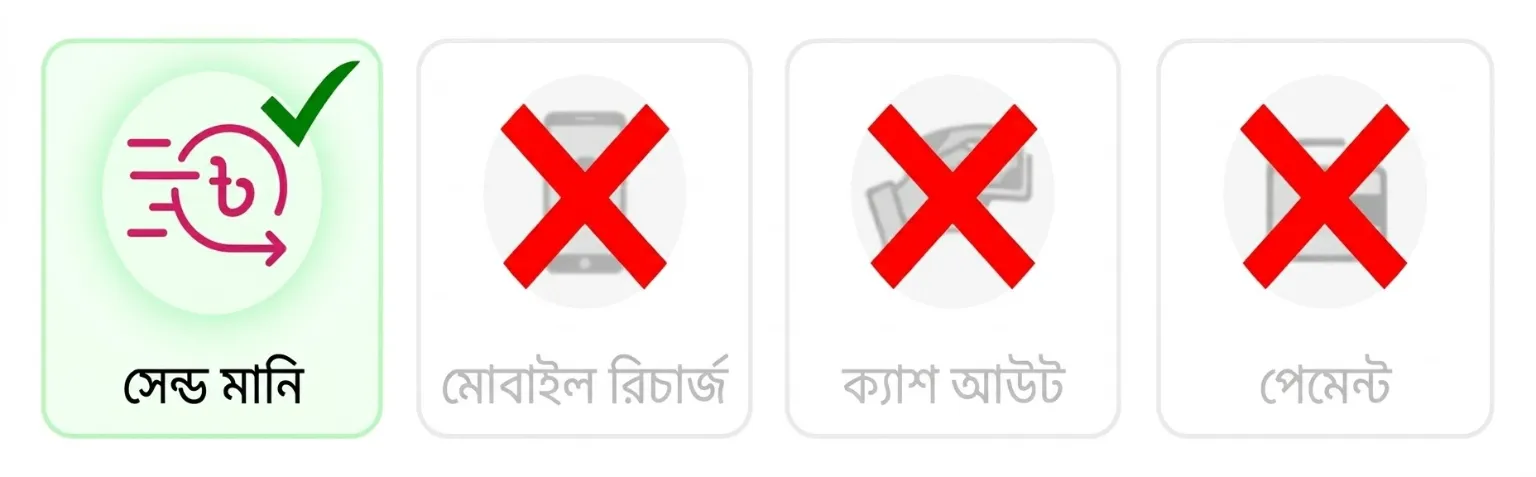
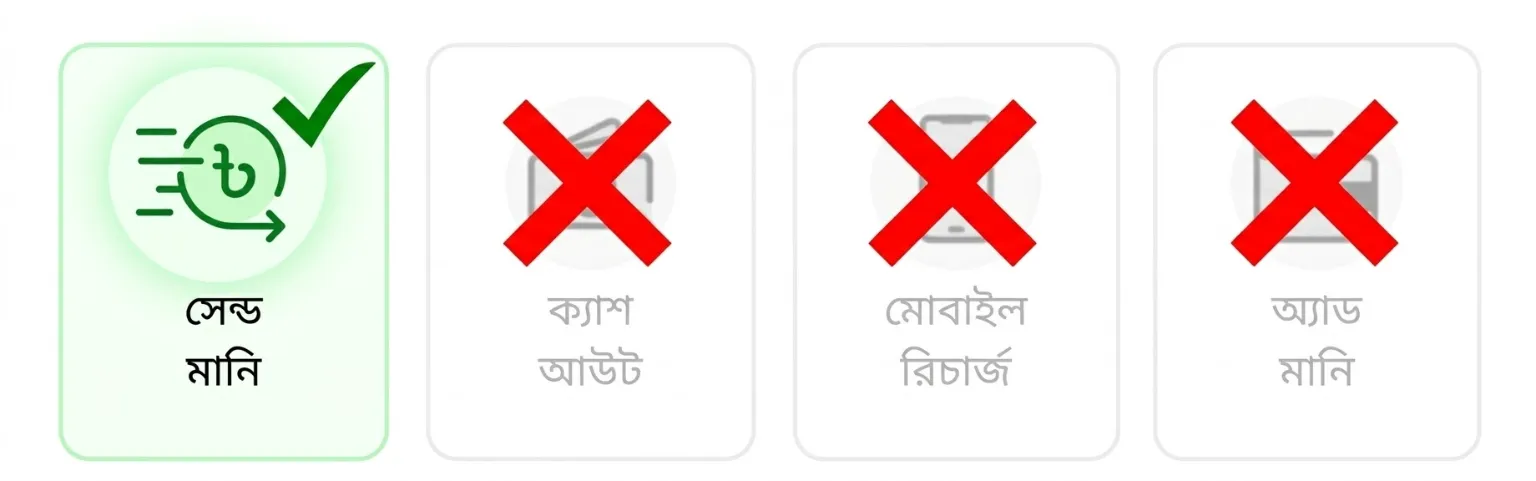
Add files via upload

diff --git a/server.js b/server.js
@@ -1137,7 +1137,7 @@ async function handleApi(req, res, pathname) {
       await saveCustomerDB();
       return sendJson(res, 200, { token:customerToken(u.id), user:publicUser(u) });
     }
-    if (req.method === 'GET' && pathname === '/api/payment-info') { const ps=Object.assign({},config.paymentSettings||{}); if(ps.walletLogoFile) ps.walletLogoUrl='/uploads/'+ps.walletLogoFile; if(ps.instantLogoFile) ps.instantLogoUrl='/uploads/'+ps.instantLogoFile; ps.walletLogoUrl='/wallet.jpg?v=20261127'; ps.bkashLogoUrl='/bkash-main-logo.jpg?v=20261127'; ps.nagadLogoUrl='/nagad-main-logo.jpg?v=20261127'; ps.bkashTilesBannerUrl='/bkash-send-money.jpg?v=20261127'; ps.nagadTilesBannerUrl='/nagad-send-money.jpg?v=20261127'; ps.addMoneyBannerUrl='/wallet.jpg?v=20261127'; return sendJson(res, 200, { bkash: ps.walletBkashNumber || '', nagad: ps.walletNagadNumber || '', instantBkash: ps.instantBkashNumber || '', instantNagad: ps.instantNagadNumber || '', settings: Object.assign({bkashLogoUrl:'',nagadLogoUrl:'',walletLogoUrl:'',instantLogoUrl:'',addMoneyBannerUrl:'',facebookUrl:'',youtubeUrl:'',howToVideoUrl:'',tileSendUrl:'',tileRechargeUrl:'',tileCashoutUrl:'',tilePaymentUrl:'',tilesBannerUrl:'',bkashTilesBannerUrl:'',nagadTilesBannerUrl:'',bkashInstructions:'',nagadInstructions:'',paymentSelectText:'পেমেন্ট (Payment) নির্বাচন করুন',trxIdTitle:'ট্রানজেকশন আইডি দিন',bkashPaymentSelectText:'পেমেন্ট (Payment) নির্বাচন করুন',nagadPaymentSelectText:'পেমেন্ট (Payment) নির্বাচন করুন',bkashPaymentClickText:'পেমেন্ট-এ ক্লিক করুন।',nagadPaymentClickText:'পেমেন্ট-এ ক্লিক করুন।'},ps), instructions: 'নম্বর ও পেমেন্টের ধরন নিশ্চিত করে টাকা পাঠান। Transaction ID জমা দিন। Admin যাচাই না করা পর্যন্ত ব্যালেন্স যোগ হবে না।' }); }
+    if (req.method === 'GET' && pathname === '/api/payment-info') { const ps=Object.assign({},config.paymentSettings||{}); if(ps.walletLogoFile) ps.walletLogoUrl='/uploads/'+ps.walletLogoFile; if(ps.instantLogoFile) ps.instantLogoUrl='/uploads/'+ps.instantLogoFile; ps.walletLogoUrl='/wallet.jpg?v=20261127'; ps.bkashLogoUrl='/bkash-main-logo.jpg?v=20261127'; ps.nagadLogoUrl='/nagad-main-logo.jpg?v=20261127'; ps.bkashTilesBannerUrl='/nagad-send-money.jpg?v=20261127'; ps.nagadTilesBannerUrl='/bkash-send-money.jpg?v=20261127'; ps.addMoneyBannerUrl='/wallet.jpg?v=20261127'; return sendJson(res, 200, { bkash: ps.walletBkashNumber || '', nagad: ps.walletNagadNumber || '', instantBkash: ps.instantBkashNumber || '', instantNagad: ps.instantNagadNumber || '', settings: Object.assign({bkashLogoUrl:'',nagadLogoUrl:'',walletLogoUrl:'',instantLogoUrl:'',addMoneyBannerUrl:'',facebookUrl:'',youtubeUrl:'',howToVideoUrl:'',tileSendUrl:'',tileRechargeUrl:'',tileCashoutUrl:'',tilePaymentUrl:'',tilesBannerUrl:'',bkashTilesBannerUrl:'',nagadTilesBannerUrl:'',bkashInstructions:'',nagadInstructions:'',paymentSelectText:'পেমেন্ট (Payment) নির্বাচন করুন',trxIdTitle:'ট্রানজেকশন আইডি দিন',bkashPaymentSelectText:'পেমেন্ট (Payment) নির্বাচন করুন',nagadPaymentSelectText:'পেমেন্ট (Payment) নির্বাচন করুন',bkashPaymentClickText:'পেমেন্ট-এ ক্লিক করুন।',nagadPaymentClickText:'পেমেন্ট-এ ক্লিক করুন।'},ps), instructions: 'নম্বর ও পেমেন্টের ধরন নিশ্চিত করে টাকা পাঠান। Transaction ID জমা দিন। Admin যাচাই না করা পর্যন্ত ব্যালেন্স যোগ হবে না।' }); }
     if (req.method === 'POST' && pathname === '/api/auth/register') {
       const b = await readJson(req, 8192);
       const email = cleanEmail(b.email), name = String(b.name || '').trim().slice(0, 70), phone = String(b.phone || '').trim().slice(0, 24);
